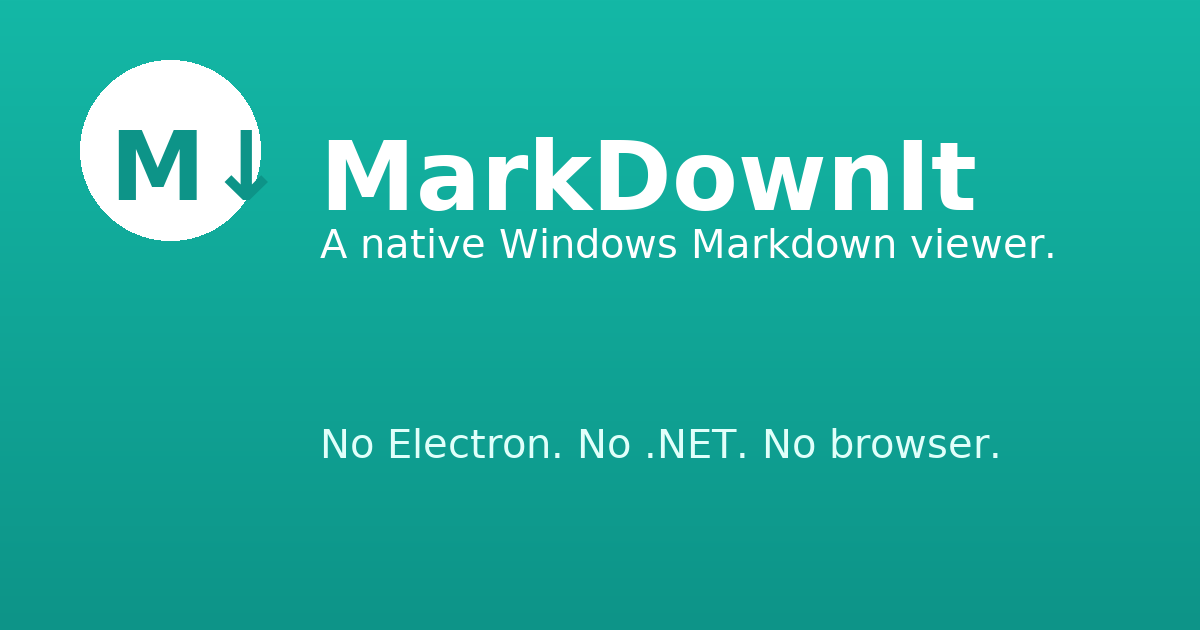
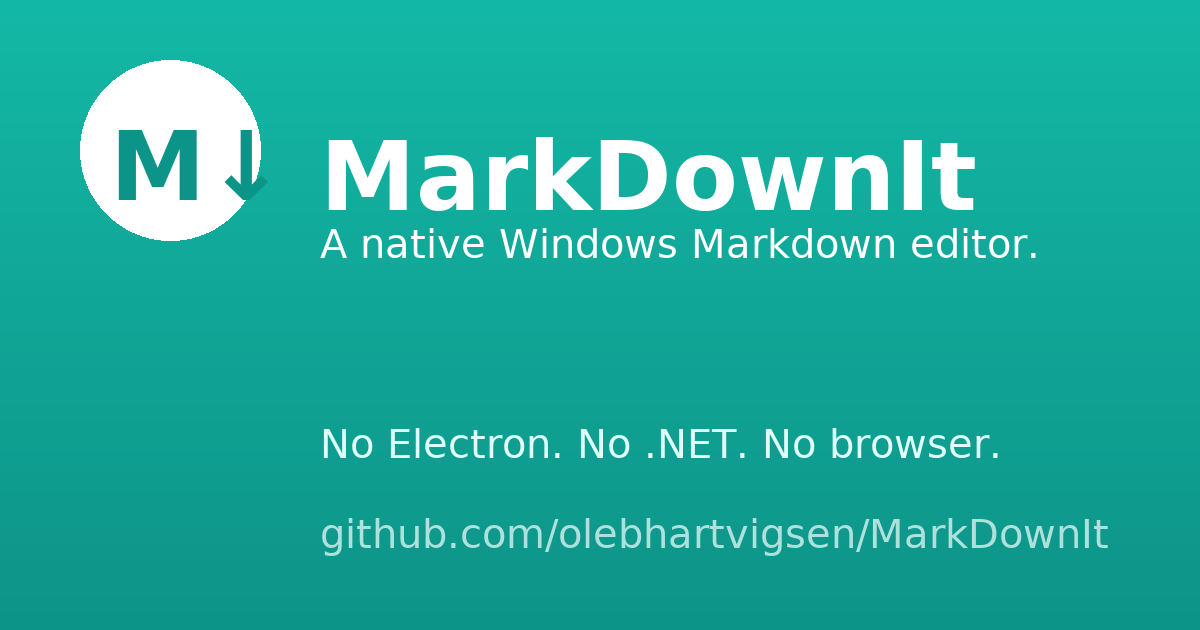
docs: lead with WYSIWYG editing on the homepage

Changed region(s): [[0.2467, 0.8143, 0.925, 0.8746], [0.74, 0.3619, 0.8633, 0.4222]]

diff --git a/docs/index.html b/docs/index.html
@@ -3,26 +3,26 @@
 <head>
 <meta charset="utf-8">
 <meta name="viewport" content="width=device-width, initial-scale=1">
-<title>MarkDownIt: a native Windows Markdown viewer</title>
-<meta name="description" content="MarkDownIt is a native Windows app for Markdown files: one executable, no Electron, no .NET runtime. Renders Mermaid diagrams, imports Word, exports Word and PDF. MIT licensed, in beta.">
+<title>MarkDownIt: a native Windows Markdown editor with WYSIWYG</title>
+<meta name="description" content="MarkDownIt is a native Windows Markdown editor with WYSIWYG: edit in the rendered view, the file stays plain Markdown. Native Mermaid diagrams, Word import, Word and PDF export. One executable, no Electron, no .NET runtime. MIT licensed, in beta.">
 <link rel="canonical" href="https://olebhartvigsen.github.io/MarkDownIt/">
 <link rel="icon" href="favicon.ico" sizes="any">
 <link rel="icon" href="markdownit-icon.svg" type="image/svg+xml">
 <meta name="theme-color" content="#0F766E">
 <meta property="og:type" content="website">
 <meta property="og:site_name" content="MarkDownIt">
-<meta property="og:title" content="MarkDownIt: a native Windows Markdown viewer">
-<meta property="og:description" content="One executable, no Electron, no .NET runtime. Native Mermaid rendering, Word import and export, PDF export. MIT licensed.">
+<meta property="og:title" content="MarkDownIt: a native Windows Markdown editor with WYSIWYG">
+<meta property="og:description" content="Edit Markdown as it renders: WYSIWYG editing in one executable, no Electron, no .NET runtime. Native Mermaid diagrams, Word and PDF export. MIT licensed.">
 <meta property="og:url" content="https://olebhartvigsen.github.io/MarkDownIt/">
 <meta property="og:image" content="https://olebhartvigsen.github.io/MarkDownIt/social-card.png">
 <meta property="og:image:width" content="1200">
 <meta property="og:image:height" content="630">
-<meta property="og:image:alt" content="MarkDownIt, a native Windows Markdown viewer. Single exe, native Mermaid rendering, Word and PDF support.">
+<meta property="og:image:alt" content="MarkDownIt, a native Windows Markdown editor with WYSIWYG. Single exe, native Mermaid diagrams, Word and PDF support.">
 <meta name="twitter:card" content="summary_large_image">
-<meta name="twitter:title" content="MarkDownIt: a native Windows Markdown viewer">
-<meta name="twitter:description" content="One executable, no Electron, no .NET runtime. Native Mermaid rendering, Word import and export, PDF export. MIT licensed.">
+<meta name="twitter:title" content="MarkDownIt: a native Windows Markdown editor with WYSIWYG">
+<meta name="twitter:description" content="Edit Markdown as it renders: WYSIWYG editing in one executable, no Electron, no .NET runtime. Native Mermaid diagrams, Word and PDF export. MIT licensed.">
 <meta name="twitter:image" content="https://olebhartvigsen.github.io/MarkDownIt/social-card.png">
-<meta name="twitter:image:alt" content="MarkDownIt, a native Windows Markdown viewer. Single exe, native Mermaid rendering, Word and PDF support.">
+<meta name="twitter:image:alt" content="MarkDownIt, a native Windows Markdown editor with WYSIWYG. Single exe, native Mermaid diagrams, Word and PDF support.">
 <style>
 :root{
   --teal:#0F766E; --teal-bright:#14B8A6; --teal-deep:#0B5E57;
@@ -98,6 +98,19 @@ section{padding:72px 0}
 .card p{color:var(--muted);font-size:15px;margin:0}
 .card h3{color:var(--ink)}
 
+/* wysiwyg */
+.split-grid{display:grid;grid-template-columns:1.05fr .95fr;gap:44px;align-items:start}
+.duo{display:grid;grid-template-columns:1fr 1fr;gap:16px}
+.duo-label{font-size:12.5px;font-weight:600;color:var(--muted);text-align:center;margin-bottom:8px}
+.mock-sm{width:100%}
+.mock-sm .mock-title{font-size:11px}
+.mock-sm .mock-body{padding:12px 14px 14px}
+.mock-line{position:relative}
+.mock-line .seg{position:absolute;top:0;bottom:0;background:#5A6B75;border-radius:4px}
+.mock-src{background:var(--navy);color:#C9E5E1;border-radius:12px;box-shadow:0 18px 44px rgba(0,0,0,.35);padding:16px;font-family:"Cascadia Mono",Consolas,"Courier New",monospace;font-size:11.5px;line-height:1.9;width:100%}
+.ms-line{white-space:nowrap;overflow:hidden}
+.ms-c{color:#7ED8CC;font-weight:600}
+
 /* mermaid */
 .mermaid-grid{display:grid;grid-template-columns:1.05fr .95fr;gap:44px;align-items:start}
 .mermaid-grid ul{color:var(--muted);padding-left:20px;margin:14px 0}
@@ -153,6 +166,7 @@ footer .fine{color:#7E9491;font-size:13px}
     </a>
     <nav aria-label="Main">
       <a href="#features">Features</a>
+      <a href="#wysiwyg">WYSIWYG</a>
       <a href="#mermaid">Mermaid</a>
       <a href="#office">Word and PDF</a>
       <a href="#faq">FAQ</a>
@@ -167,14 +181,15 @@ footer .fine{color:#7E9491;font-size:13px}
 <section class="hero">
   <div class="wrap">
     <div>
-      <span class="eyebrow">Native Windows Markdown app</span>
+      <span class="eyebrow">Native Windows Markdown editor</span>
       <h1>MarkDownIt</h1>
-      <p class="lead">MarkDownIt opens and edits Markdown files the way a Windows app should: one executable, no Electron shell, no .NET runtime, rendering with the graphics stack that ships in Windows.</p>
+      <p class="lead">MarkDownIt edits Markdown in the rendered view itself: the caret sits in the formatted text, and the file on disk stays plain Markdown. One executable, no Electron shell, no .NET runtime, drawn with the graphics stack that ships in Windows.</p>
       <div class="hero-ctas">
         <a class="btn btn-solid" href="https://github.com/olebhartvigsen/MarkDownIt/releases/latest" target="_blank" rel="noopener">Download the beta</a>
         <a class="btn btn-ghost" href="#features">See what it does</a>
       </div>
       <div class="chip-row" aria-label="Facts">
+        <span class="chip">WYSIWYG editing</span>
         <span class="chip">Windows 10 and 11</span>
         <span class="chip">x64</span>
         <span class="chip">Single exe</span>
@@ -210,12 +225,12 @@ footer .fine{color:#7E9491;font-size:13px}
     </div>
     <div class="grid">
       <div class="card">
-        <h3>One executable, nothing to install</h3>
-        <p>MarkDownIt is a single exe written in C++. No Electron shell, no .NET runtime, no bundled dependencies. Copy it somewhere and run it.</p>
+        <h3>Edit the rendered view</h3>
+        <p>Type in the formatted text itself. Caret, selection, undo and redo work on the rendered document, tables get cell navigation, and the file stays plain Markdown. The raw source is one toggle away.</p>
       </div>
       <div class="card">
-        <h3>Editing in both views</h3>
-        <p>Switch between rendered editing and a plain source view. Bold, italic, links, inline code, headings and lists are on the ribbon when you want them, and the source is always one toggle away.</p>
+        <h3>One executable, nothing to install</h3>
+        <p>MarkDownIt is a single exe written in C++. No Electron shell, no .NET runtime, no bundled dependencies. Copy it somewhere and run it.</p>
       </div>
       <div class="card">
         <h3>Tables and structure</h3>
@@ -229,7 +244,52 @@ footer .fine{color:#7E9491;font-size:13px}
   </div>
 </section>
 
-<section id="mermaid" class="sec-alt">
+<section id="wysiwyg" class="sec-alt">
+  <div class="wrap split-grid">
+    <div>
+      <h2>WYSIWYG editing</h2>
+      <p class="lead">Most Markdown tools put a preview next to your text. MarkDownIt puts the caret in the rendered text instead: you type formatted text directly, and the .md file on disk stays plain Markdown.</p>
+      <ul>
+        <li>Caret, selection, undo and redo work on the rendered document.</li>
+        <li>Bold, italic, links, inline code, headings, lists and quotes are on the ribbon.</li>
+        <li>Tables get cell navigation with Tab, plus row and column commands.</li>
+        <li>Find and replace, an outline pane, and zoom from 25% to 400% are built in.</li>
+      </ul>
+      <p class="note">Prefer the raw text? Switch to the source view.</p>
+    </div>
+    <div>
+      <div class="duo">
+        <div>
+          <div class="duo-label">Rendered editing</div>
+          <div class="mock mock-sm" aria-hidden="true">
+            <div class="mock-title">release-notes.md</div>
+            <div class="mock-body">
+              <div class="mock-h"></div>
+              <div class="mock-line w95"><span class="seg" style="left:31%;width:13%"></span></div>
+              <div class="mock-line w80"></div>
+              <div class="mock-h2"></div>
+              <div class="mock-table"><div></div><div></div><div></div><div></div><div></div><div></div></div>
+            </div>
+          </div>
+        </div>
+        <div>
+          <div class="duo-label">Source view</div>
+          <div class="mock-src" aria-hidden="true">
+            <div class="ms-line"><span class="ms-c"># </span>Release notes</div>
+            <div class="ms-line">The <span class="ms-c">**</span>new<span class="ms-c">**</span> exporter keeps layout.</div>
+            <div class="ms-line"><span class="ms-c">- </span>item one</div>
+            <div class="ms-line"><span class="ms-c">- </span>item two</div>
+            <div class="ms-line"><span class="ms-c">| a | b |</span></div>
+            <div class="ms-line"><span class="ms-c">&gt; </span>a quote</div>
+          </div>
+        </div>
+      </div>
+      <p class="note">Same file, both views: edit the formatted one, read the raw one.</p>
+    </div>
+  </div>
+</section>
+
+<section id="mermaid">
   <div class="wrap mermaid-grid">
     <div>
       <h2>Mermaid, drawn natively</h2>
@@ -255,7 +315,7 @@ flowchart TD
   </div>
 </section>
 
-<section id="office">
+<section id="office" class="sec-alt">
   <div class="wrap">
     <div class="sec-head">
       <h2>Word and PDF</h2>
@@ -281,7 +341,7 @@ flowchart TD
   </div>
 </section>
 
-<section id="download" class="sec-alt">
+<section id="download">
   <div class="wrap">
     <div class="download-box">
       <h2>Download the beta</h2>
@@ -296,7 +356,7 @@ flowchart TD
   </div>
 </section>
 
-<section id="faq">
+<section id="faq" class="sec-alt">
   <div class="wrap">
     <div class="sec-head">
       <h2>FAQ</h2>
@@ -305,6 +365,10 @@ flowchart TD
     <details class="faq-item">
       <summary>What is MarkDownIt?</summary>
       <p>A native Windows app for Markdown files. It opens .md files from Explorer, renders them with Direct2D and DirectWrite, and lets you edit in a rendered view or a source view.</p>
+    </details>
+    <details class="faq-item">
+      <summary>What does WYSIWYG mean here?</summary>
+      <p>The rendered view is the editor. You place the caret in the formatted text and type. The .md file keeps its Markdown the whole time, and if you want the raw text you switch to the source view.</p>
     </details>
     <details class="faq-item">
       <summary>Which Windows versions does it run on?</summary>

diff --git a/tools/socialcard/gen_social_card.py b/tools/socialcard/gen_social_card.py
@@ -20,8 +20,9 @@ def draw_card(font_reg, font_bold, out):
     d.ellipse([80, 60, 260, 240], fill=WHITE)
     d.text((110, 110), "M↓", font=font_bold, fill=TEAL_DARK)
     d.text((320, 120), "MarkDownIt", font=font_bold, fill=WHITE)
-    d.text((320, 220), "A native Windows Markdown viewer.", font=font_reg, fill=WHITE)
+    d.text((320, 220), "A native Windows Markdown editor.", font=font_reg, fill=WHITE)
     d.text((320, 420), "No Electron. No .NET. No browser.", font=font_reg, fill=(224, 255, 250))
+    d.text((320, 510), "github.com/olebhartvigsen/MarkDownIt", font=font_reg, fill=(174, 224, 220))
     img.save(out, "PNG")
 
 if __name__ == "__main__":
